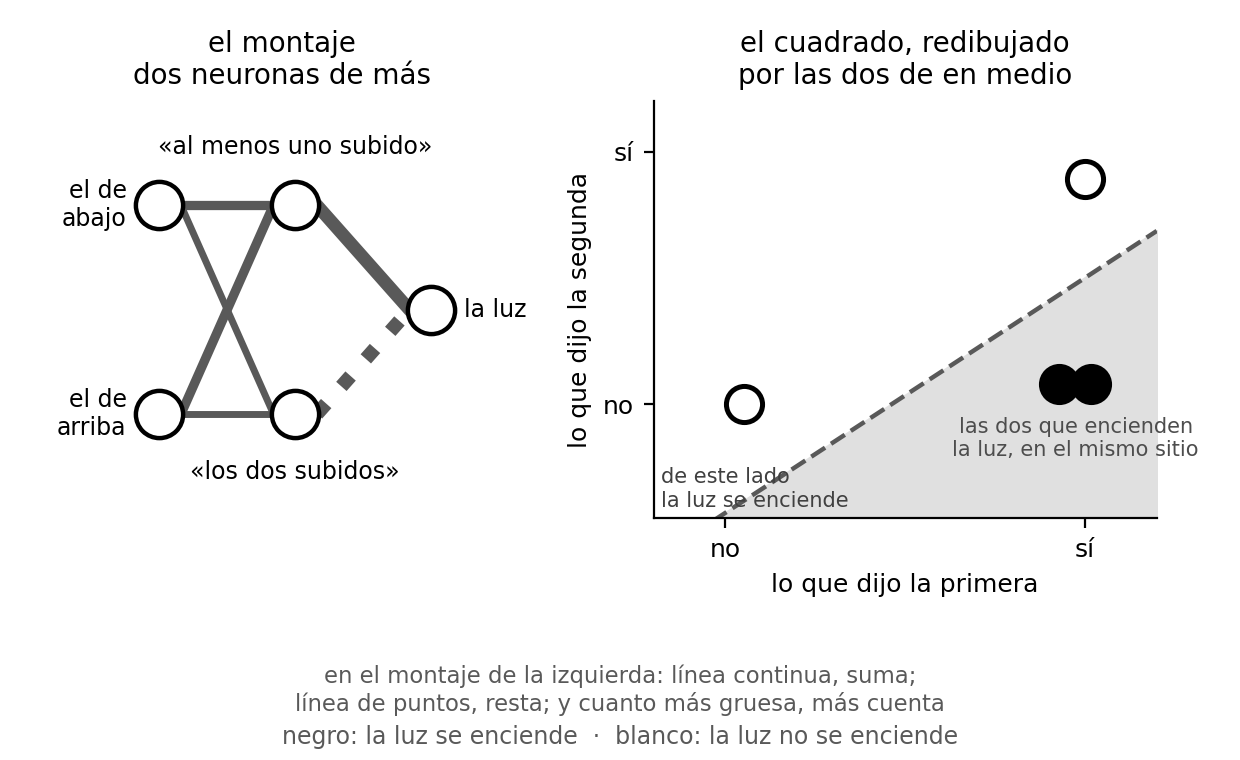
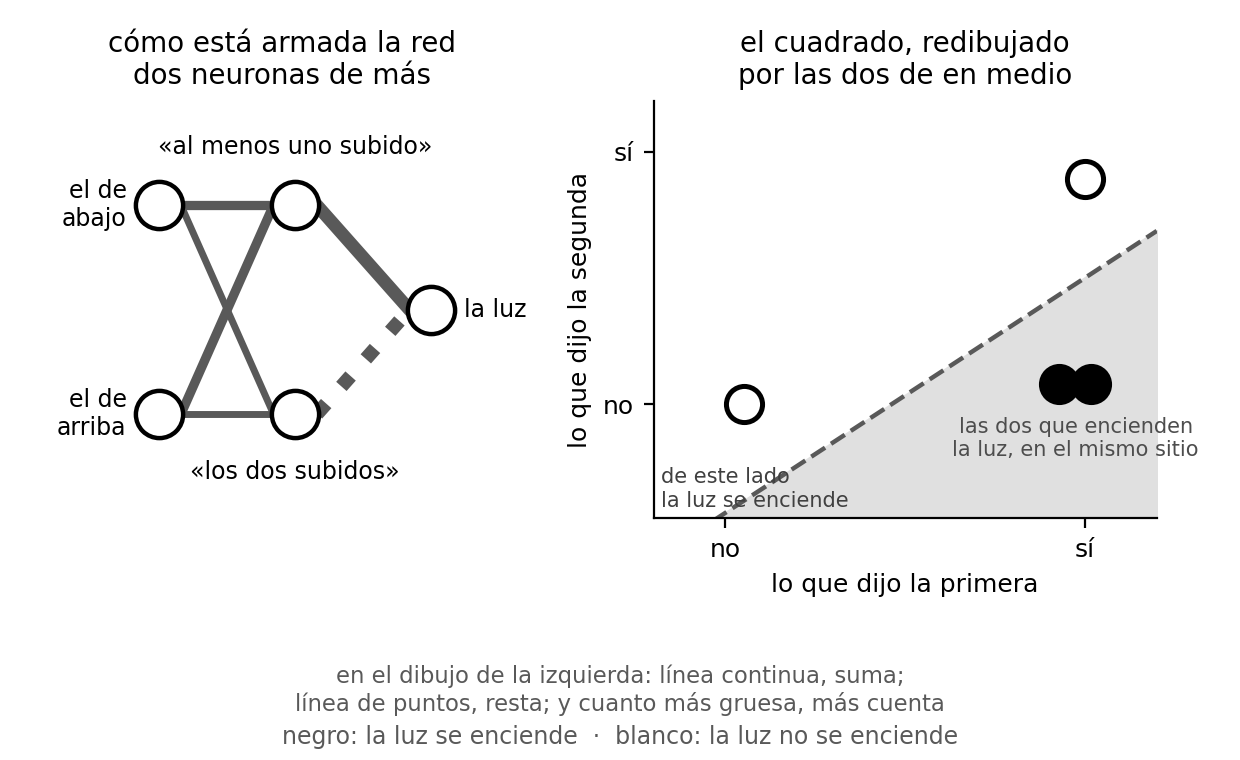
Una lampara, dieciseis montajes: un nombre para cada cosa
El libro llamaba a lo mismo de tres maneras: «lamparas» (en plural, como
si del techo del pasillo colgaran dieciseis), «reglas» y «maneras». El
propio texto llevaba el parche que lo delataba: «No lamparas de distinto
color: lamparas que se comporten de manera distinta».

Ahora: una lampara, la del pasillo; dieciseis MONTAJES, que es como la
puede conectar el electricista; y cuatro POSICIONES de los interruptores.

- perceptron.py: el titulo del bloque y las etiquetas del puente dicen
  montajes. Numeros a la castellana (100.000, no 100,000). El resumen se
  parte en dos lineas aqui y no en el libro: una linea de 84 caracteres no
  cabe, y partirla en el libro seria retocar salida de maquina.
- verificar_vocabulario.py: comprueba tambien las PALABRAS JUBILADAS
  declaradas en VOCABULARIO.md. Si una palabra retirada vuelve, suspende, y
  los titulos SI cuentan, que es por donde vuelven de verdad. La señal
  implantada del selftest devuelve «lamparas» a un titulo.
- figura_apilar.py: el panel ya no se titula «el montaje», que ahora
  significa otra cosa; se titula «como esta armada la red».

Claude-Session: https://claude.ai/code/session_012cuTPu3mnKRQtUvBTtLSKH

Changed region(s): [[0.0919, 0.0303, 0.3677, 0.0908], [0.2452, 0.8776, 0.7355, 0.9079]]

diff --git a/codigo/verificar_vocabulario.py b/codigo/verificar_vocabulario.py
@@ -22,6 +22,7 @@ VOCABULARIO = "notas/VOCABULARIO.md"
 ORDEN = "manuscript/Book.txt"
 MANUSCRITO = "manuscript"
 MARCADO = r'`\\[a-záéíóúñ]+\{(.*?)\}`\{=latex\}'   # envoltorio de imprenta: es formato, no texto
+SECCION_JUBILADAS = "## Palabras jubiladas"
 
 # ==========================================================
 
@@ -48,6 +49,49 @@ def leer_vocabulario(raiz):
                          "ancla": ancla})
     assert terminos, f"Se esperaba al menos un término declarado en {ruta}; no hay ninguno"
     return terminos
+
+
+def leer_jubiladas(raiz):
+    """Las palabras retiradas y las frases donde sí se les permite volver.
+
+    Una explicación que se escribe a trozos acumula sinónimos: cada pasada deja una
+    palabra nueva y no retira la vieja. Al final la misma cosa se llama de tres maneras en
+    tres páginas seguidas y el lector cree que son tres cosas. Esto lo caza."""
+    ruta = os.path.join(raiz, VOCABULARIO)
+    dentro = False
+    jubiladas, excepciones = [], []
+    for n, linea in enumerate(open(ruta, encoding="utf-8"), 1):
+        if linea.startswith("## "):
+            dentro = linea.strip() == SECCION_JUBILADAS
+            continue
+        if not dentro:
+            continue
+        m = re.match(r"^-\s+`([^`]+)`", linea)
+        if m:
+            excepciones.append(m.group(1).strip())
+            continue
+        if linea.count("|") != 2 or linea[:1] in ("#", " ", "\t"):
+            continue
+        jubilada, buena, motivo = [x.strip() for x in linea.split("|")]
+        assert jubilada and buena and motivo, \
+            f"{VOCABULARIO} línea {n}: se esperaban tres campos con contenido; se encontró «{linea.strip()}»"
+        jubiladas.append({"jubilada": jubilada, "buena": buena, "motivo": motivo})
+    return jubiladas, excepciones
+
+
+def buscar_jubiladas(lineas, jubiladas, excepciones):
+    """Dónde ha vuelto una palabra retirada. Los títulos SÍ cuentan aquí: un apartado
+    titulado con la palabra vieja es justo la manera en que estas cosas sobreviven."""
+    avisos = []
+    for j in jubiladas:
+        patron = re.compile(r"\b" + re.escape(j["jubilada"]) + r"\b", re.IGNORECASE)
+        for f, n, texto in lineas:
+            if not patron.search(texto):
+                continue
+            if any(e in texto for e in excepciones):
+                continue
+            avisos.append((f, n, j, texto.strip()))
+    return avisos
 
 
 def leer_orden(raiz):
@@ -78,6 +122,7 @@ def sitio(lineas, condicion):
 
 def revisar(raiz):
     terminos = leer_vocabulario(raiz)
+    jubiladas, excepciones = leer_jubiladas(raiz)
     lineas = list(lineas_del_libro(raiz, leer_orden(raiz)))
     cuerpo = [(f, n, t) for f, n, t in lineas if not t.lstrip().startswith("#")]
     fallos, filas = [], []
@@ -104,10 +149,14 @@ def revisar(raiz):
         if uso[0] < pos_bautizo:
             fallos.append(f"«{t['termino']}»: se usa en {uso[1]} línea {uso[2]} y no se bautiza "
                           f"hasta {bautizo[1]} línea {bautizo[2]}")
-    return filas, fallos
+
+    for f, n, j, texto in buscar_jubiladas(lineas, jubiladas, excepciones):
+        fallos.append(f"palabra jubilada «{j['jubilada']}» en {f} línea {n}: "
+                      f"ahora se dice «{j['buena']}» ({j['motivo']})\n      {texto[:90]}")
+    return filas, fallos, len(jubiladas)
 
 
-def imprimir(filas, fallos):
+def imprimir(filas, fallos, n_jubiladas):
     ancho = max([len(f[0]) for f in filas] + [8])
     print(f"{'término':<{ancho}}  {'se bautiza en':<34}  primer uso")
     for termino, bautizo, uso in filas:
@@ -117,7 +166,8 @@ def imprimir(filas, fallos):
         for f in fallos:
             print("FALLA:", f)
         return 1
-    print(f"PASA: los {len(filas)} términos se presentan antes de usarse.")
+    print(f"PASA: los {len(filas)} términos se presentan antes de usarse, y ninguna de las "
+          f"{n_jubiladas} palabras jubiladas ha vuelto.")
     return 0
 
 
@@ -135,7 +185,7 @@ def selftest(raiz):
         shutil.copytree(raiz, copia, ignore=shutil.ignore_patterns(".git", "pdf"))
         with open(os.path.join(copia, VOCABULARIO), "a", encoding="utf-8") as fh:
             fh.write("\nzarandaja | zarandaja, zarandajas | cap02-perceptron.md | **zarandaja**\n")
-        _, f2 = revisar(copia)
+        _, f2, _ = revisar(copia)
         ok = any("zarandaja" in x for x in f2)
         print(f"[1] test nulo         un término que no existe en el libro: "
               f"{'se queja, bien' if ok else 'NO se queja'}")
@@ -152,16 +202,32 @@ def selftest(raiz):
             "pesos | peso, pesos | cap02-perceptron.md | se les llama **los pesos**",
             "pesos | peso, pesos | cap13-mapa-de-los-sotanos.md | los nombres reales")
         open(voc, "w", encoding="utf-8").write(texto)
-        _, f2 = revisar(copia)
+        _, f2, _ = revisar(copia)
         ok = any("«pesos»" in x and "no se bautiza hasta" in x for x in f2)
         print(f"[2] señal implantada  bautizo de «pesos» movido al final: "
               f"{'lo caza' if ok else 'NO lo caza'}")
         if not ok:
             fallos.append("señal implantada: moví el bautizo de «pesos» al capítulo 13 y no lo cazó")
 
+    # [2 bis] La otra señal implantada: se mete una palabra jubilada en un TÍTULO, que es
+    #         por donde vuelven de verdad, y tiene que cazarla.
+    with tempfile.TemporaryDirectory() as tmp:
+        copia = os.path.join(tmp, "libro")
+        shutil.copytree(raiz, copia, ignore=shutil.ignore_patterns(".git", "pdf"))
+        cap = os.path.join(copia, MANUSCRITO, "cap02-perceptron.md")
+        texto = open(cap, encoding="utf-8").read().replace(
+            "## Dieciséis maneras de montarla", "## Dieciséis lámparas posibles", 1)
+        open(cap, "w", encoding="utf-8").write(texto)
+        _, f2b, _ = revisar(copia)
+        ok = any("jubilada «lámparas»" in x for x in f2b)
+        print(f"[2] señal implantada  «lámparas» devuelta a un título: "
+              f"{'la caza' if ok else 'NO la caza'}")
+        if not ok:
+            fallos.append("señal implantada: devolví «lámparas» a un título y no la cazó")
+
     # [3] Invariante del dominio: los títulos no cuentan como uso. «neurona» está en el
     #     título del capítulo 2 y se bautiza dentro; tiene que pasar.
-    filas, f3 = revisar(raiz)
+    filas, f3, _ = revisar(raiz)
     ok = not any("«neurona»" in x for x in f3)
     print(f"[3] invariante        «neurona» en el título del capítulo 2: "
           f"{'no cuenta como uso, bien' if ok else 'cuenta como uso, mal'}")

diff --git a/codigo/perceptron.py b/codigo/perceptron.py
@@ -31,6 +31,7 @@ import csv
 import itertools
 import sys
 
+from formato import ANCHO_CAJA, comprobar_ancho, miles, coma
 import numpy as np
 
 
@@ -107,7 +108,8 @@ def reglas_de_dos_interruptores():
     return aprendidas, fallidas, constantes
 
 
-# Las dieciséis reglas, nombradas en castellano corriente. La clave son las cuatro
+# Las dieciséis maneras de montar la lámpara del pasillo, nombradas en castellano
+# corriente. El libro las llama montajes: una sola lámpara, dieciséis maneras de montarla. La clave son las cuatro
 # respuestas, en el orden de TABLA_DOS: ninguno, solo el segundo, solo el primero, los dos.
 # Vive aquí, en el capítulo 2, y de aquí la importa el capítulo 3: una cosa, un nombre.
 # Los dos interruptores del libro son los del pasillo: uno abajo y otro arriba. Las
@@ -136,12 +138,7 @@ CASILLAS = ["ninguno", "solo 2\u00ba", "solo 1\u00ba", "los dos"]
 
 
 # ---- El aspecto del bloque de las dieciséis -------------------------------------
-# ANCHO_CAJA: cuántos caracteres monoespaciados caben de margen a margen en la página
-# del libro. No es una estimación: se compuso una página de prueba con el preámbulo
-# real (6 x 9 pulgadas, caja de 4,45 pulgadas, los bloques de programa a \footnotesize)
-# y se fue subiendo el ancho hasta que xelatex avisó. Con 68 no avisa; con 69 avisa.
-ANCHO_CAJA = 68
-TITULO_TABLA = "LAS DIECISÉIS LÁMPARAS POSIBLES CON DOS INTERRUPTORES"
+TITULO_TABLA = "LAS DIECISÉIS MANERAS DE MONTAR LA LÁMPARA DEL PASILLO"
 FILA_ABAJO   = "el interruptor de abajo"
 FILA_ARRIBA  = "el interruptor de arriba"
 FILA_NOMBRES = "¿cuándo se enciende?"
@@ -231,10 +228,7 @@ def tabla_de_las_dieciseis(aprendidas, fallidas, constantes):
 
     # INVARIANTE DEL FORMATO: si una línea se sale de la caja, el libro la imprime
     # partida o pisando el margen, y el lector ve una tabla rota. Que reviente aquí.
-    for l in lineas:
-        assert len(l) <= ANCHO_CAJA, \
-            f"Se esperaba una línea de {ANCHO_CAJA} caracteres como mucho; se encontró una de {len(l)}: {l!r}"
-    return lineas
+    return comprobar_ancho(lineas)
 
 
 def medir_xor():
@@ -320,14 +314,17 @@ def main():
         filas.append(["digitos", f"{a}v{b_dig}", r["ejemplos_entrenamiento"],
                       f"{r['acierto_prueba']:.4f}", r["converge"]])
 
-    print("\n--- 2. LAS DIECISÉIS REGLAS DE DOS INTERRUPTORES ---")
+    print("\n--- 2. LAS DIECISÉIS MANERAS DE MONTAR LA LÁMPARA ---")
     aprendidas, fallidas, constantes = reglas_de_dos_interruptores()
     for linea in tabla_de_las_dieciseis(aprendidas, fallidas, constantes):
         print(linea)
     entrenadas = len(aprendidas) - len(constantes)
     print()
+    # Partido en dos líneas aquí, y no en el libro: una línea de 84 caracteres no cabe en
+    # la página, y partirla en el libro sería retocar salida de máquina (regla 6).
     print(f"resuelve {len(aprendidas)} de 16: {entrenadas} entrenando y "
-          f"{len(constantes)} donde no hay nada que aprender. Con {len(fallidas)} no puede.")
+          f"{len(constantes)} donde")
+    print(f"no hay nada que aprender. Con {len(fallidas)} no puede.")
     filas.append(["reglas_dos", "aprendidas", len(aprendidas), "", ""])
     filas.append(["reglas_dos", "entrenadas", entrenadas, "", ""])
     filas.append(["reglas_dos", "constantes", len(constantes), "", ""])
@@ -336,17 +333,24 @@ def main():
     print("\n--- 3. EL PUENTE: LO QUE APRENDE Y LO QUE UNA RAYA SEPARA ---")
     separables = reglas_que_una_raya_separa()
     iguales = set(separables) == set(aprendidas)
-    print(f"reglas que el perceptrón resuelve entrenando:  {len(aprendidas)}")
-    print(f"reglas que una sola raya puede separar:        {len(separables)}")
-    print(f"¿son exactamente las mismas?                   {'sí' if iguales else 'NO'}")
+    # Ancho fijo para las etiquetas: si cada una lleva el suyo, los números quedan en
+    # tres columnas distintas y las dos cifras que hay que comparar dejan de estar una
+    # encima de la otra, que es lo único que este bloque tiene que enseñar.
+    for etiqueta, valor in (
+            ("montajes que el perceptrón aprende entrenando", len(aprendidas)),
+            ("montajes que una sola raya puede separar", len(separables)),
+            ("¿son exactamente los mismos?", "sí" if iguales else "NO")):
+        rotulo = etiqueta if etiqueta.endswith("?") else etiqueta + ":"
+        print(f"{rotulo:<48}{valor:>3}")
     filas.append(["puente", "aprendidas", len(aprendidas), "", ""])
     filas.append(["puente", "separables", len(separables), "", ""])
     filas.append(["puente", "coinciden", iguales, "", ""])
 
     print("\n--- 4. EL O EXCLUSIVO ---")
     r = medir_xor()
-    print(f"correcciones: {r['correcciones']:,}   converge: {'sí' if r['converge'] else 'NO'}"
-          f"   acierto final: {r['acierto_final']:.3f} sobre 4 casos")
+    print(f"correcciones: {miles(r['correcciones'])}   "
+          f"converge: {'sí' if r['converge'] else 'NO'}   "
+          f"acierta {round(4 * r['acierto_final'])} de las 4 posiciones")
     filas.append(["xor", "", r["correcciones"], f"{r['acierto_final']:.4f}", r["converge"]])
 
     with open(SALIDA_CSV, "w", newline="", encoding="utf-8") as fh:

diff --git a/codigo/figura_apilar.py b/codigo/figura_apilar.py
@@ -4,7 +4,8 @@ Capítulos 2 y 3 — la figura de apilar: la segunda capa no ve la foto, ve lo q
 primera dijo sobre la foto.
 
 Dos paneles:
-  Izquierda  el montaje real de la red que resuelve el o exclusivo: dos interruptores,
+  Izquierda  cómo está armada de verdad la red que resuelve el o exclusivo: dos
+             interruptores,
              dos neuronas en medio, una luz. El grosor de cada flecha es el peso que
              de verdad aprendió la red; la línea de puntos es un peso que frena.
   Derecha    las mismas cuatro situaciones, dibujadas ya no según los interruptores sino
@@ -39,7 +40,7 @@ ETIQUETA_SALIDA = "la luz"
 # Las claves de la figura. En el panel de la izquierda el grosor y el trazo de cada línea
 # SON datos —son los pesos que aprendió la red—, y sin decirlo son adorno. En el de la
 # derecha, negro y blanco quieren decir lo de siempre en este libro.
-CLAVE_MONTAJE = ("en el montaje de la izquierda: línea continua, suma;\n"
+CLAVE_MONTAJE = ("en el dibujo de la izquierda: línea continua, suma;\n"
                  "línea de puntos, resta; y cuanto más gruesa, más cuenta")
 CLAVE_COLOR = "negro: la luz se enciende  ·  blanco: la luz no se enciende"
 
@@ -126,7 +127,7 @@ def panel_montaje(ax, red, reglas):
             else:
                 ax.text(x + 0.24, y, texto, ha="left", va="center", fontsize=8.5)
 
-    ax.set_title("el montaje\ndos neuronas de más", fontsize=10)
+    ax.set_title("cómo está armada la red\ndos neuronas de más", fontsize=10)
     ax.set_xlim(-0.95, 2.75)
     ax.set_ylim(-1.5, 1.5)
     ax.axis("off")
